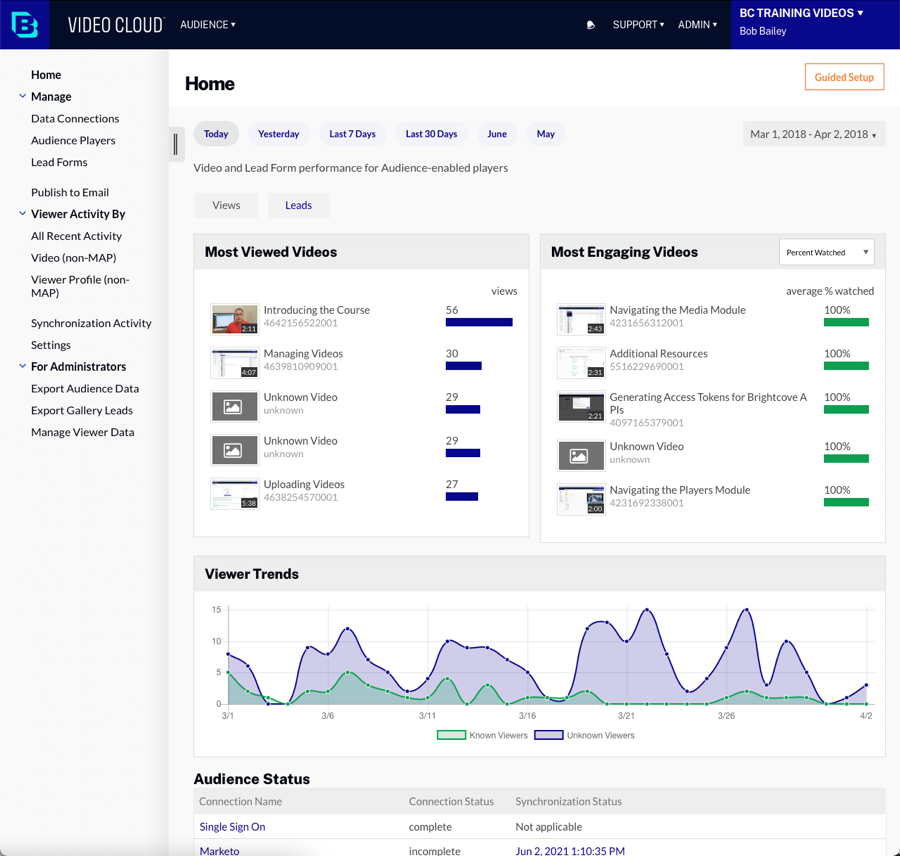
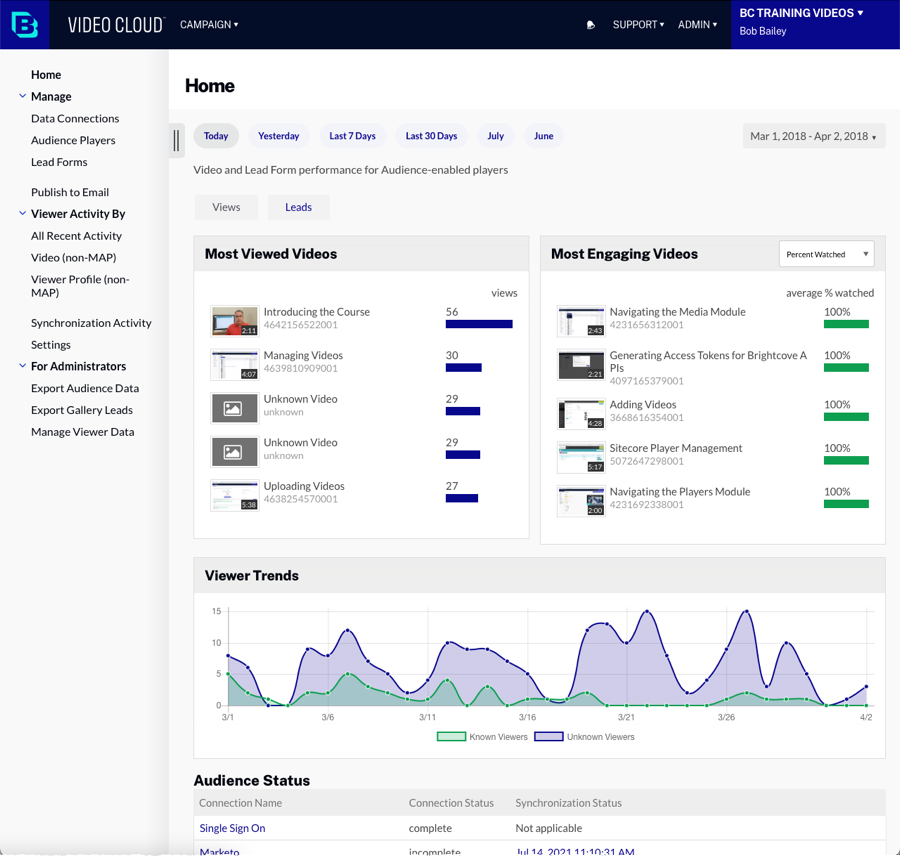
updates

diff --git a/_site/campaign/get-started/getting-started-campaign-module.html b/_site/campaign/get-started/getting-started-campaign-module.html
@@ -4,9 +4,9 @@
 <head>
   <meta charset="utf-8">
   <meta name="viewport" content="width=device-width, initial-scale=1, shrink-to-fit=no">
-  <meta name="description" content="This topic provides an overview of the Audience module which is used to track video engagement.">
+  <meta name="description" content="This topic provides an overview of the Campaign module which is used to track video engagement.">
   
-  <title>Getting Started with the Audience Module</title>
+  <title>Getting Started with the Campaign Module</title>
   <link rel="apple-touch-icon" sizes="180x180" href="/apple-touch-icon.png">
   <link rel="icon" type="image/png" sizes="32x32" href="/favicon-32x32.png">
   <link rel="icon" type="image/png" sizes="16x16" href="/favicon-16x16.png">
@@ -61,7 +61,7 @@ function doGTranslate(lang_pair) {if(lang_pair.value)lang_pair=lang_pair.value;i
       
       <li class="breadcrumb-item"><a href="/campaign/get-started/">Getting Started</a></li>
       
-      <li class="breadcrumb-item active" aria-current="page">Getting Started with the Audience Module</li>
+      <li class="breadcrumb-item active" aria-current="page">Getting Started with the Campaign Module</li>
     </ol>
   </nav>
 </header>
@@ -1174,39 +1174,39 @@ function doGTranslate(lang_pair) {if(lang_pair.value)lang_pair=lang_pair.value;i
 
 
 <article class="bcls-article">
-  <h1>Getting Started with the Audience Module</h1>
-  <summary>This topic provides an overview of the Audience module which is used to track video engagement.</summary>
+  <h1>Getting Started with the Campaign Module</h1>
+  <summary>This topic provides an overview of the Campaign module which is used to track video engagement.</summary>
   <section class="bcls-section">
     <div class="training-video-player-ipx" data-experience="5a73630f7afd7a00101bc1b5" data-video-ids="4582289844001">&nbsp;</div>
     <script src="https://players.brightcove.net/20318290001/experience_5a73630f7afd7a00101bc1b5/live.js"></script>
-    <p>The Audience module is used to track video engagement data for videos that are viewed inside of an Audience-enabled Brightcove Player. Viewing data is stored in Video Cloud and can optionally be synchronized to popular marketing automation platforms such as Eloqua, Marketo, HubSpot and Salesforce.</p>
-    <p>To access the Audience module, login to Video Cloud and click <strong>Audience</strong> in the navigation header. The Audience homepage displays video engagement data which provides insights into how long videos were watched, which videos were watched, and who watched them. This allows you to better engage and convert your audiences.</p>
+    <p>The Campaign module is used to track video engagement data for videos that are viewed inside of a Campaign-enabled Brightcove Player. Viewing data is stored in Video Cloud and can optionally be synchronized to popular marketing automation platforms such as Eloqua, Marketo, HubSpot and Salesforce.</p>
+    <p>To access the Campaign module, login to Video Cloud and click <strong>Campaign</strong> in the navigation header. The Campaign homepage displays video engagement data which provides insights into how long videos were watched, which videos were watched, and who watched them. This allows you to better engage and convert your audiences.</p>
     <figure class="bcls-figure"><img class="bcls-image--no-border" alt="" src="/assets/images/campaign/getting-started/node15634-campaign-ui.png" /></figure>
     <p>The homepage provides the ability to:</p>
     <ul>
       <li><a href="#performance">View video performance</a></li>
       <li><a href="#leads">View leads performance</a></li>
-      <li><a href="#status">View the Audience module status</a></li>
+      <li><a href="#status">View the Campaign module status</a></li>
     </ul>
-    <p>The Audience module provides the ability to:</p>
+    <p>The Campaign module provides the ability to:</p>
     <ul>
       <li><a href="#connections">Setup data connections</a></li>
-      <li><a href="#players">Create Audience players</a></li>
+      <li><a href="#players">Create Campaign players</a></li>
       <li><a href="#leadforms">Create and manage lead forms</a></li>
       <li><a href="#email">Publish to Email </a></li>
       <li><a href="#events">View player events</a></li>
       <li><a href="#profiles">View viewer profiles</a></li>
       <li><a href="#jobs">View synchronization activity</a></li>
-      <li><a href="#settings">Configure Audience settings</a></li>
-      <li><a href="#export">Export Audience data</a></li>
+      <li><a href="#settings">Configure Campaign settings</a></li>
+      <li><a href="#export">Export Campaign data</a></li>
       <li><a href="#gallery_leads">Export Gallery leads</a></li>
       <li><a href="#manage">Manage viewer data</a></li>
     </ul>
   </section>
   <section class="bcls-section">
     <h2 id="performance">Viewing video performance</h2>
-    <p>The video performance section provides high level video performance for videos that were played inside of Audience-enabled players.</p>
-    <aside class="bcls-aside bcls-aside--information">Note: The Audience analytics system is separate from the general Video Cloud analytics system, and the two track data differently. Therefore you will see differences in some metrics if you compare the two. For example, the Video Cloud analytics system counts views as soon as a video starts, while the Audience analytics system does not count views until 10 seconds into the video. So if 14 viewers start the video, but 6 of them stop it before 10 seconds have played, Video Cloud analytics would show 14 views, while the Audience module would show 8.</aside>
+    <p>The video performance section provides high level video performance for videos that were played inside of Campaign-enabled players.</p>
+    <aside class="bcls-aside bcls-aside--information">Note: The Campaign analytics system is separate from the general Video Cloud analytics system, and the two track data differently. Therefore you will see differences in some metrics if you compare the two. For example, the Video Cloud analytics system counts views as soon as a video starts, while the Campaign analytics system does not count views until 10 seconds into the video. So if 14 viewers start the video, but 6 of them stop it before 10 seconds have played, Video Cloud analytics would show 14 views, while the Campaign module would show 8.</aside>
     <p>Start by selecting a <strong>Time Period</strong> for the charts. The following options are available:</p>
     <ul>
       <li>7 Days</li>
@@ -1221,12 +1221,12 @@ function doGTranslate(lang_pair) {if(lang_pair.value)lang_pair=lang_pair.value;i
     </ul>
     <div id="viewed" class="BCL-subsection">
       <h3>Most Viewed Videos</h3>
-      <p>The Most Viewed Videos chart displays the most viewed videos in Audience-enabled players for the selected time period.</p>
+      <p>The Most Viewed Videos chart displays the most viewed videos in Campaign-enabled players for the selected time period.</p>
       <figure class="bcls-figure"><img class="bcls-image--no-border" alt="" src="/assets/images/campaign/getting-started/node15634-most-viewed.png" /></figure>
     </div>
     <div id="engage" class="BCL-subsection">
       <h3>Most Engaging Videos</h3>
-      <p>The Most Engaging Videos chart displays the most engaging videos in Audience-enabled players for the selected time period. Engagement is the average percent watched. For details on how we calculate video engagement, watch the training video <a href="https://studio.support.brightcove.com/analytics/calculating-video-engagement-score.html">Calculating Video Engagement Score</a>.</p>
+      <p>The Most Engaging Videos chart displays the most engaging videos in Campaign-enabled players for the selected time period. Engagement is the average percent watched. For details on how we calculate video engagement, watch the training video <a href="https://studio.support.brightcove.com/analytics/calculating-video-engagement-score.html">Calculating Video Engagement Score</a>.</p>
       <figure class="bcls-figure"><img class="bcls-image--no-border" alt="" src="/assets/images/campaign/getting-started/node15634-most-engaging.png" /></figure>
     </div>
     <div id="trends" class="BCL-subsection">
@@ -1238,7 +1238,7 @@ function doGTranslate(lang_pair) {if(lang_pair.value)lang_pair=lang_pair.value;i
   </section>
   <section class="bcls-section">
     <h2 id="leads">Viewing leads performance</h2>
-    <p>To view the leads information, click the <strong>Leads</strong> tab. Note that the Leads tab will only appear if your account has Audience lead forms created. The leads performance section provides high level leads performance for videos that were played inside of Audience-enabled players. Start by selecting a <strong>Time Period</strong> for the charts. The following options are available:</p>
+    <p>To view the leads information, click the <strong>Leads</strong> tab. Note that the Leads tab will only appear if your account has Campaign lead forms created. The leads performance section provides high level leads performance for videos that were played inside of Campaign-enabled players. Start by selecting a <strong>Time Period</strong> for the charts. The following options are available:</p>
     <ul>
       <li>7 Days</li>
       <li>30 Days</li>
@@ -1246,13 +1246,13 @@ function doGTranslate(lang_pair) {if(lang_pair.value)lang_pair=lang_pair.value;i
     </ul>
     <p>The following charts are displayed:</p>
     <ul>
-      <li><a href="#funnel">Audience Funnel</a></li>
+      <li><a href="#funnel">Campaign Funnel</a></li>
       <li><a href="#top">Top Converting Videos</a></li>
       <li><a href="#leads">Leads Chart</a></li>
     </ul>
     <div id="funnel" class="BCL-subsection">
-      <h3>Audience Funnel</h3>
-      <p>The Audience Funnel displays metrics for videos in Audience-enabled players with Audience lead forms for the selected time period:</p>
+      <h3>Campaign Funnel</h3>
+      <p>The Campaign Funnel displays metrics for videos in Campaign-enabled players with Campaign lead forms for the selected time period:</p>
       <ul>
         <li><strong>Video impressions</strong> - The number of videos that were loaded</li>
         <li><strong>Video views</strong> - The number of times a video started playing, recorded when the stream is started (does not include rewind or replay); it is not a measure of individual viewers</li>
@@ -1273,13 +1273,13 @@ function doGTranslate(lang_pair) {if(lang_pair.value)lang_pair=lang_pair.value;i
     </div>
   </section>
   <section class="bcls-section">
-    <h2 id="status">Viewing the Audience module status</h2>
-    <p>The Audience Status section displays the current status of the Audience module.</p>
+    <h2 id="status">Viewing the Campaign module status</h2>
+    <p>The Campaign Status section displays the current status of the Campaign module.</p>
     <figure class="bcls-figure"><img class="bcls-image--no-border" alt="" src="/assets/images/campaign/getting-started/node15634-campaign-status.png" /></figure>
   </section>
   <section class="bcls-section">
     <h2 id="connections">Setting up data connections</h2>
-    <p>The <strong>Data Connections</strong> option is where you configure the Audience integrations. Audience can integrate with popular marketing automation platforms ("MAP&nbsp;integration") or the viewing data can be saved locally and then exported or extracted using the Audience API ("non-MAP" integration). The following table outlines the supported integrations.</p>
+    <p>The <strong>Data Connections</strong> option is where you configure the Campaign integrations. Campaign can integrate with popular marketing automation platforms ("MAP&nbsp;integration") or the viewing data can be saved locally and then exported or extracted using the Audience API ("non-MAP" integration). The following table outlines the supported integrations.</p>
     <table class="bcls-table">
       <thead class="bcls-table__head">
         <tr>
@@ -1300,30 +1300,30 @@ function doGTranslate(lang_pair) {if(lang_pair.value)lang_pair=lang_pair.value;i
           <td><ul>
               <li><a href="/campaign/integrations/non-map/creating-custom-integrations-campaign-module.html">Custom integrations</a></li>
               <li><a href="/campaign/integrations/non-map/integrating-campaign-single-sign.html">Single sign-on</a></li>
-              <li><a href="/campaign/integrations/non-map/using-campaign-module-track-viewers.html">Audience Tracking</a></li>
+              <li><a href="/campaign/integrations/non-map/using-campaign-module-track-viewers.html">Campaign Tracking</a></li>
             </ul></td>
         </tr>
       </tbody>
     </table>
-    <p>When publishing Audience-enabled players, use the Advanced Embed (in-page) publishing code. The Standard Embed (iframe) publishing code will not work as the Audience plugin will be running inside of an iframe and therefore will be unable to access any parent page URL parameters and may not get the correct cookies.</p>
+    <p>When publishing Campaign-enabled players, use the Advanced Embed (in-page) publishing code. The Standard Embed (iframe) publishing code will not work as the Campaign plugin will be running inside of an iframe and therefore will be unable to access any parent page URL parameters and may not get the correct cookies.</p>
     <aside class="bcls-aside bcls-aside--information">Note: The number of connections that can be configured is based upon your Video Cloud subscription.</aside>
   </section>
   <section class="bcls-section">
-    <h2 id="players">Creating Audience players</h2>
-    <p>The <strong>Audience Players</strong> option allows you to create Audience-enabled Brightcove Players. Video engagement data will only be recorded when video content is viewed inside of an Audience-enabled video player. For information on creating Audience-enabled players, see <a href="/campaign/general/creating-campaign-enabled-player.html">Creating an Audience-enabled Player</a>.</p>
+    <h2 id="players">Creating Campaign players</h2>
+    <p>The <strong>Campaign Players</strong> option allows you to create Campaign-enabled Brightcove Players. Video engagement data will only be recorded when video content is viewed inside of a Campaign-enabled video player. For information on creating Campaign-enabled players, see <a href="/campaign/general/creating-campaign-enabled-player.html">Creating a Campaign-enabled Player</a>.</p>
   </section>
   <section class="bcls-section">
     <h2 id="leadforms">Creating and managing lead forms</h2>
-    <p>The <strong>Lead Forms</strong> option allows you to create lead forms for data capture. Once a lead form is created, it can be associated with an Audience-enabled player. For information on creating lead forms, see <a href="/campaign/general/creating-campaign-lead-form.html">Creating an Audience&nbsp;Lead Form</a>. It is also possible to create and use lead forms that are created inside of a third-party marketing automation platform.</p>
+    <p>The <strong>Lead Forms</strong> option allows you to create lead forms for data capture. Once a lead form is created, it can be associated with a Campaign-enabled player. For information on creating lead forms, see <a href="/campaign/general/creating-campaign-lead-form.html">Creating a Campaign&nbsp;Lead Form</a>. It is also possible to create and use lead forms that are created inside of a third-party marketing automation platform.</p>
   </section>
   <section class="bcls-section">
     <h2 id="email">Publishing a video to email</h2>
-    <p>The <strong>Publish to Email</strong> option allows you to select a player, video and then generate the HTML embed code to email the video. For information, see <a href="/campaign/general/publishing-video-email-using-campaign-module.html">Publishing a Video to Email using the Audience Module</a>.</p>
+    <p>The <strong>Publish to Email</strong> option allows you to select a player, video and then generate the HTML embed code to email the video. For information, see <a href="/campaign/general/publishing-video-email-using-campaign-module.html">Publishing a Video to Email using the Campaign Module</a>.</p>
     <aside class="bcls-aside bcls-aside--information">Note: The Media module also provides the ability to publish a video to email. For information, see <a href="/publish/publishing-video-email.html">Publishing a Video to Email</a>.</aside>
   </section>
   <section class="bcls-section">
     <h2 id="events">Viewing player events</h2>
-    <p>The <strong>All Recent Activity</strong> option allows you to view the player view events that were recorded for the past 24 hours. For information, see <a href="/campaign/general/viewing-player-events-campaign-module.html">Viewing Player Events in the Audience Module</a>.</p>
+    <p>The <strong>All Recent Activity</strong> option allows you to view the player view events that were recorded for the past 24 hours. For information, see <a href="/campaign/general/viewing-player-events-campaign-module.html">Viewing Player Events in the Campaign Module</a>.</p>
   </section>
   <section class="bcls-section">
     <h2 id="videoactivity">Viewing video activity</h2>
@@ -1331,21 +1331,21 @@ function doGTranslate(lang_pair) {if(lang_pair.value)lang_pair=lang_pair.value;i
   </section>
   <section class="bcls-section">
     <h2 id="profiles">Viewing viewer profiles</h2>
-    <p>The <strong>Viewer Profile (non-MAP)</strong> option allows you to view the player view events by viewer. This option is enabled when using SSO or custom integrations, or Audience Tracking. For information, see <a href="/campaign/general/viewing-viewer-profile-information.html">Viewing Viewer Profile Information</a>.</p>
+    <p>The <strong>Viewer Profile (non-MAP)</strong> option allows you to view the player view events by viewer. This option is enabled when using SSO or custom integrations, or Campaign Tracking. For information, see <a href="/campaign/general/viewing-viewer-profile-information.html">Viewing Viewer Profile Information</a>.</p>
   </section>
   <section class="bcls-section">
     <h2 id="jobs">Viewing synchronization activity</h2>
-    <p>The <strong>Synchronization Activity</strong> option displays the last 10 jobs that were synchronized from Audience to a marketing automation platform. Synchronization runs on an hourly basis. Select a connection and then click the <strong>Test Sync</strong> button to run a synchronization. This is helpful when testing new integrations to avoid having to wait to see if event data is being sent to your marketing automation platform. Test Sync can be executed once every 5 minutes up to 10 times per hour.</p>
+    <p>The <strong>Synchronization Activity</strong> option displays the last 10 jobs that were synchronized from Campaign to a marketing automation platform. Synchronization runs on an hourly basis. Select a connection and then click the <strong>Test Sync</strong> button to run a synchronization. This is helpful when testing new integrations to avoid having to wait to see if event data is being sent to your marketing automation platform. Test Sync can be executed once every 5 minutes up to 10 times per hour.</p>
     <aside class="bcls-aside bcls-aside--information">Note: When using custom integrations, no synchronization jobs are created. Synchronization jobs are created only when using integrations with a marketing automation platform.</aside>
     <figure class="bcls-figure"><img class="bcls-image--no-border" alt="" src="/assets/images/campaign/getting-started/node15634-jobs.png" /></figure>
   </section>
   <section class="bcls-section">
-    <h2 id="settings">Configuring Audience settings</h2>
-    <p>The <strong>Settings</strong> option allows you to configure some default settings for the account. For information, see <a href="/campaign/general/configuring-campaign-settings.html">Configuring Audience Settings</a>.</p>
+    <h2 id="settings">Configuring Campaign settings</h2>
+    <p>The <strong>Settings</strong> option allows you to configure some default settings for the account. For information, see <a href="/campaign/general/configuring-campaign-settings.html">Configuring Campaign Settings</a>.</p>
   </section>
   <section class="bcls-section">
-    <h2 id="export">Exporting Audience data</h2>
-    <p>The <strong>Export Audience Data</strong> option is used to export view event and lead form data. This option will only appear for account administrators. For information on exporting Audience data, see <a href="/campaign/admin/exporting-campaign-data-campaign-module.html">Exporting Audience Data from the Audience Module</a>.</p>
+    <h2 id="export">Exporting Campaign data</h2>
+    <p>The <strong>Export Campaign Data</strong> option is used to export view event and lead form data. This option will only appear for account administrators. For information on exporting Campaign data, see <a href="/campaign/admin/exporting-campaign-data-campaign-module.html">Exporting Campaign Data from the Campaign Module</a>.</p>
   </section>
   <section class="bcls-section">
     <h2 id="gallery_leads">Exporting Gallery leads</h2>

diff --git a/campaign/get-started/getting-started-campaign-module.html b/campaign/get-started/getting-started-campaign-module.html
@@ -1,6 +1,6 @@
 ---
-title: Getting Started with the Audience Module
-description: This topic provides an overview of the Audience module which is used to track video engagement.
+title: Getting Started with the Campaign Module
+description: This topic provides an overview of the Campaign module which is used to track video engagement.
 parent: Getting Started
 ---
 <article class="bcls-article">
@@ -9,34 +9,34 @@ parent: Getting Started
   <section class="bcls-section">
     <div class="training-video-player-ipx" data-experience="5a73630f7afd7a00101bc1b5" data-video-ids="4582289844001">&nbsp;</div>
     <script src="https://players.brightcove.net/20318290001/experience_5a73630f7afd7a00101bc1b5/live.js"></script>
-    <p>The Audience module is used to track video engagement data for videos that are viewed inside of an Audience-enabled Brightcove Player. Viewing data is stored in Video Cloud and can optionally be synchronized to popular marketing automation platforms such as Eloqua, Marketo, HubSpot and Salesforce.</p>
-    <p>To access the Audience module, login to Video Cloud and click <strong>Audience</strong> in the navigation header. The Audience homepage displays video engagement data which provides insights into how long videos were watched, which videos were watched, and who watched them. This allows you to better engage and convert your audiences.</p>
+    <p>The Campaign module is used to track video engagement data for videos that are viewed inside of a Campaign-enabled Brightcove Player. Viewing data is stored in Video Cloud and can optionally be synchronized to popular marketing automation platforms such as Eloqua, Marketo, HubSpot and Salesforce.</p>
+    <p>To access the Campaign module, login to Video Cloud and click <strong>Campaign</strong> in the navigation header. The Campaign homepage displays video engagement data which provides insights into how long videos were watched, which videos were watched, and who watched them. This allows you to better engage and convert your audiences.</p>
     <figure class="bcls-figure"><img class="bcls-image--no-border" alt="" src="/assets/images/campaign/getting-started/node15634-campaign-ui.png" /></figure>
     <p>The homepage provides the ability to:</p>
     <ul>
       <li><a href="#performance">View video performance</a></li>
       <li><a href="#leads">View leads performance</a></li>
-      <li><a href="#status">View the Audience module status</a></li>
+      <li><a href="#status">View the Campaign module status</a></li>
     </ul>
-    <p>The Audience module provides the ability to:</p>
+    <p>The Campaign module provides the ability to:</p>
     <ul>
       <li><a href="#connections">Setup data connections</a></li>
-      <li><a href="#players">Create Audience players</a></li>
+      <li><a href="#players">Create Campaign players</a></li>
       <li><a href="#leadforms">Create and manage lead forms</a></li>
       <li><a href="#email">Publish to Email </a></li>
       <li><a href="#events">View player events</a></li>
       <li><a href="#profiles">View viewer profiles</a></li>
       <li><a href="#jobs">View synchronization activity</a></li>
-      <li><a href="#settings">Configure Audience settings</a></li>
-      <li><a href="#export">Export Audience data</a></li>
+      <li><a href="#settings">Configure Campaign settings</a></li>
+      <li><a href="#export">Export Campaign data</a></li>
       <li><a href="#gallery_leads">Export Gallery leads</a></li>
       <li><a href="#manage">Manage viewer data</a></li>
     </ul>
   </section>
   <section class="bcls-section">
     <h2 id="performance">Viewing video performance</h2>
-    <p>The video performance section provides high level video performance for videos that were played inside of Audience-enabled players.</p>
-    <aside class="bcls-aside bcls-aside--information">Note: The Audience analytics system is separate from the general Video Cloud analytics system, and the two track data differently. Therefore you will see differences in some metrics if you compare the two. For example, the Video Cloud analytics system counts views as soon as a video starts, while the Audience analytics system does not count views until 10 seconds into the video. So if 14 viewers start the video, but 6 of them stop it before 10 seconds have played, Video Cloud analytics would show 14 views, while the Audience module would show 8.</aside>
+    <p>The video performance section provides high level video performance for videos that were played inside of Campaign-enabled players.</p>
+    <aside class="bcls-aside bcls-aside--information">Note: The Campaign analytics system is separate from the general Video Cloud analytics system, and the two track data differently. Therefore you will see differences in some metrics if you compare the two. For example, the Video Cloud analytics system counts views as soon as a video starts, while the Campaign analytics system does not count views until 10 seconds into the video. So if 14 viewers start the video, but 6 of them stop it before 10 seconds have played, Video Cloud analytics would show 14 views, while the Campaign module would show 8.</aside>
     <p>Start by selecting a <strong>Time Period</strong> for the charts. The following options are available:</p>
     <ul>
       <li>7 Days</li>
@@ -51,12 +51,12 @@ parent: Getting Started
     </ul>
     <div id="viewed" class="BCL-subsection">
       <h3>Most Viewed Videos</h3>
-      <p>The Most Viewed Videos chart displays the most viewed videos in Audience-enabled players for the selected time period.</p>
+      <p>The Most Viewed Videos chart displays the most viewed videos in Campaign-enabled players for the selected time period.</p>
       <figure class="bcls-figure"><img class="bcls-image--no-border" alt="" src="/assets/images/campaign/getting-started/node15634-most-viewed.png" /></figure>
     </div>
     <div id="engage" class="BCL-subsection">
       <h3>Most Engaging Videos</h3>
-      <p>The Most Engaging Videos chart displays the most engaging videos in Audience-enabled players for the selected time period. Engagement is the average percent watched. For details on how we calculate video engagement, watch the training video <a href="https://studio.support.brightcove.com/analytics/calculating-video-engagement-score.html">Calculating Video Engagement Score</a>.</p>
+      <p>The Most Engaging Videos chart displays the most engaging videos in Campaign-enabled players for the selected time period. Engagement is the average percent watched. For details on how we calculate video engagement, watch the training video <a href="https://studio.support.brightcove.com/analytics/calculating-video-engagement-score.html">Calculating Video Engagement Score</a>.</p>
       <figure class="bcls-figure"><img class="bcls-image--no-border" alt="" src="/assets/images/campaign/getting-started/node15634-most-engaging.png" /></figure>
     </div>
     <div id="trends" class="BCL-subsection">
@@ -68,7 +68,7 @@ parent: Getting Started
   </section>
   <section class="bcls-section">
     <h2 id="leads">Viewing leads performance</h2>
-    <p>To view the leads information, click the <strong>Leads</strong> tab. Note that the Leads tab will only appear if your account has Audience lead forms created. The leads performance section provides high level leads performance for videos that were played inside of Audience-enabled players. Start by selecting a <strong>Time Period</strong> for the charts. The following options are available:</p>
+    <p>To view the leads information, click the <strong>Leads</strong> tab. Note that the Leads tab will only appear if your account has Campaign lead forms created. The leads performance section provides high level leads performance for videos that were played inside of Campaign-enabled players. Start by selecting a <strong>Time Period</strong> for the charts. The following options are available:</p>
     <ul>
       <li>7 Days</li>
       <li>30 Days</li>
@@ -76,13 +76,13 @@ parent: Getting Started
     </ul>
     <p>The following charts are displayed:</p>
     <ul>
-      <li><a href="#funnel">Audience Funnel</a></li>
+      <li><a href="#funnel">Campaign Funnel</a></li>
       <li><a href="#top">Top Converting Videos</a></li>
       <li><a href="#leads">Leads Chart</a></li>
     </ul>
     <div id="funnel" class="BCL-subsection">
-      <h3>Audience Funnel</h3>
-      <p>The Audience Funnel displays metrics for videos in Audience-enabled players with Audience lead forms for the selected time period:</p>
+      <h3>Campaign Funnel</h3>
+      <p>The Campaign Funnel displays metrics for videos in Campaign-enabled players with Campaign lead forms for the selected time period:</p>
       <ul>
         <li><strong>Video impressions</strong> - The number of videos that were loaded</li>
         <li><strong>Video views</strong> - The number of times a video started playing, recorded when the stream is started (does not include rewind or replay); it is not a measure of individual viewers</li>
@@ -103,13 +103,13 @@ parent: Getting Started
     </div>
   </section>
   <section class="bcls-section">
-    <h2 id="status">Viewing the Audience module status</h2>
-    <p>The Audience Status section displays the current status of the Audience module.</p>
+    <h2 id="status">Viewing the Campaign module status</h2>
+    <p>The Campaign Status section displays the current status of the Campaign module.</p>
     <figure class="bcls-figure"><img class="bcls-image--no-border" alt="" src="/assets/images/campaign/getting-started/node15634-campaign-status.png" /></figure>
   </section>
   <section class="bcls-section">
     <h2 id="connections">Setting up data connections</h2>
-    <p>The <strong>Data Connections</strong> option is where you configure the Audience integrations. Audience can integrate with popular marketing automation platforms ("MAP&nbsp;integration") or the viewing data can be saved locally and then exported or extracted using the Audience API ("non-MAP" integration). The following table outlines the supported integrations.</p>
+    <p>The <strong>Data Connections</strong> option is where you configure the Campaign integrations. Campaign can integrate with popular marketing automation platforms ("MAP&nbsp;integration") or the viewing data can be saved locally and then exported or extracted using the Audience API ("non-MAP" integration). The following table outlines the supported integrations.</p>
     <table class="bcls-table">
       <thead class="bcls-table__head">
         <tr>
@@ -130,30 +130,30 @@ parent: Getting Started
           <td><ul>
               <li><a href="/campaign/integrations/non-map/creating-custom-integrations-campaign-module.html">Custom integrations</a></li>
               <li><a href="/campaign/integrations/non-map/integrating-campaign-single-sign.html">Single sign-on</a></li>
-              <li><a href="/campaign/integrations/non-map/using-campaign-module-track-viewers.html">Audience Tracking</a></li>
+              <li><a href="/campaign/integrations/non-map/using-campaign-module-track-viewers.html">Campaign Tracking</a></li>
             </ul></td>
         </tr>
       </tbody>
     </table>
-    <p>When publishing Audience-enabled players, use the Advanced Embed (in-page) publishing code. The Standard Embed (iframe) publishing code will not work as the Audience plugin will be running inside of an iframe and therefore will be unable to access any parent page URL parameters and may not get the correct cookies.</p>
+    <p>When publishing Campaign-enabled players, use the Advanced Embed (in-page) publishing code. The Standard Embed (iframe) publishing code will not work as the Campaign plugin will be running inside of an iframe and therefore will be unable to access any parent page URL parameters and may not get the correct cookies.</p>
     <aside class="bcls-aside bcls-aside--information">Note: The number of connections that can be configured is based upon your Video Cloud subscription.</aside>
   </section>
   <section class="bcls-section">
-    <h2 id="players">Creating Audience players</h2>
-    <p>The <strong>Audience Players</strong> option allows you to create Audience-enabled Brightcove Players. Video engagement data will only be recorded when video content is viewed inside of an Audience-enabled video player. For information on creating Audience-enabled players, see <a href="/campaign/general/creating-campaign-enabled-player.html">Creating an Audience-enabled Player</a>.</p>
+    <h2 id="players">Creating Campaign players</h2>
+    <p>The <strong>Campaign Players</strong> option allows you to create Campaign-enabled Brightcove Players. Video engagement data will only be recorded when video content is viewed inside of a Campaign-enabled video player. For information on creating Campaign-enabled players, see <a href="/campaign/general/creating-campaign-enabled-player.html">Creating a Campaign-enabled Player</a>.</p>
   </section>
   <section class="bcls-section">
     <h2 id="leadforms">Creating and managing lead forms</h2>
-    <p>The <strong>Lead Forms</strong> option allows you to create lead forms for data capture. Once a lead form is created, it can be associated with an Audience-enabled player. For information on creating lead forms, see <a href="/campaign/general/creating-campaign-lead-form.html">Creating an Audience&nbsp;Lead Form</a>. It is also possible to create and use lead forms that are created inside of a third-party marketing automation platform.</p>
+    <p>The <strong>Lead Forms</strong> option allows you to create lead forms for data capture. Once a lead form is created, it can be associated with a Campaign-enabled player. For information on creating lead forms, see <a href="/campaign/general/creating-campaign-lead-form.html">Creating a Campaign&nbsp;Lead Form</a>. It is also possible to create and use lead forms that are created inside of a third-party marketing automation platform.</p>
   </section>
   <section class="bcls-section">
     <h2 id="email">Publishing a video to email</h2>
-    <p>The <strong>Publish to Email</strong> option allows you to select a player, video and then generate the HTML embed code to email the video. For information, see <a href="/campaign/general/publishing-video-email-using-campaign-module.html">Publishing a Video to Email using the Audience Module</a>.</p>
+    <p>The <strong>Publish to Email</strong> option allows you to select a player, video and then generate the HTML embed code to email the video. For information, see <a href="/campaign/general/publishing-video-email-using-campaign-module.html">Publishing a Video to Email using the Campaign Module</a>.</p>
     <aside class="bcls-aside bcls-aside--information">Note: The Media module also provides the ability to publish a video to email. For information, see <a href="/publish/publishing-video-email.html">Publishing a Video to Email</a>.</aside>
   </section>
   <section class="bcls-section">
     <h2 id="events">Viewing player events</h2>
-    <p>The <strong>All Recent Activity</strong> option allows you to view the player view events that were recorded for the past 24 hours. For information, see <a href="/campaign/general/viewing-player-events-campaign-module.html">Viewing Player Events in the Audience Module</a>.</p>
+    <p>The <strong>All Recent Activity</strong> option allows you to view the player view events that were recorded for the past 24 hours. For information, see <a href="/campaign/general/viewing-player-events-campaign-module.html">Viewing Player Events in the Campaign Module</a>.</p>
   </section>
   <section class="bcls-section">
     <h2 id="videoactivity">Viewing video activity</h2>
@@ -161,21 +161,21 @@ parent: Getting Started
   </section>
   <section class="bcls-section">
     <h2 id="profiles">Viewing viewer profiles</h2>
-    <p>The <strong>Viewer Profile (non-MAP)</strong> option allows you to view the player view events by viewer. This option is enabled when using SSO or custom integrations, or Audience Tracking. For information, see <a href="/campaign/general/viewing-viewer-profile-information.html">Viewing Viewer Profile Information</a>.</p>
+    <p>The <strong>Viewer Profile (non-MAP)</strong> option allows you to view the player view events by viewer. This option is enabled when using SSO or custom integrations, or Campaign Tracking. For information, see <a href="/campaign/general/viewing-viewer-profile-information.html">Viewing Viewer Profile Information</a>.</p>
   </section>
   <section class="bcls-section">
     <h2 id="jobs">Viewing synchronization activity</h2>
-    <p>The <strong>Synchronization Activity</strong> option displays the last 10 jobs that were synchronized from Audience to a marketing automation platform. Synchronization runs on an hourly basis. Select a connection and then click the <strong>Test Sync</strong> button to run a synchronization. This is helpful when testing new integrations to avoid having to wait to see if event data is being sent to your marketing automation platform. Test Sync can be executed once every 5 minutes up to 10 times per hour.</p>
+    <p>The <strong>Synchronization Activity</strong> option displays the last 10 jobs that were synchronized from Campaign to a marketing automation platform. Synchronization runs on an hourly basis. Select a connection and then click the <strong>Test Sync</strong> button to run a synchronization. This is helpful when testing new integrations to avoid having to wait to see if event data is being sent to your marketing automation platform. Test Sync can be executed once every 5 minutes up to 10 times per hour.</p>
     <aside class="bcls-aside bcls-aside--information">Note: When using custom integrations, no synchronization jobs are created. Synchronization jobs are created only when using integrations with a marketing automation platform.</aside>
     <figure class="bcls-figure"><img class="bcls-image--no-border" alt="" src="/assets/images/campaign/getting-started/node15634-jobs.png" /></figure>
   </section>
   <section class="bcls-section">
-    <h2 id="settings">Configuring Audience settings</h2>
-    <p>The <strong>Settings</strong> option allows you to configure some default settings for the account. For information, see <a href="/campaign/general/configuring-campaign-settings.html">Configuring Audience Settings</a>.</p>
+    <h2 id="settings">Configuring Campaign settings</h2>
+    <p>The <strong>Settings</strong> option allows you to configure some default settings for the account. For information, see <a href="/campaign/general/configuring-campaign-settings.html">Configuring Campaign Settings</a>.</p>
   </section>
   <section class="bcls-section">
-    <h2 id="export">Exporting Audience data</h2>
-    <p>The <strong>Export Audience Data</strong> option is used to export view event and lead form data. This option will only appear for account administrators. For information on exporting Audience data, see <a href="/campaign/admin/exporting-campaign-data-campaign-module.html">Exporting Audience Data from the Audience Module</a>.</p>
+    <h2 id="export">Exporting Campaign data</h2>
+    <p>The <strong>Export Campaign Data</strong> option is used to export view event and lead form data. This option will only appear for account administrators. For information on exporting Campaign data, see <a href="/campaign/admin/exporting-campaign-data-campaign-module.html">Exporting Campaign Data from the Campaign Module</a>.</p>
   </section>
   <section class="bcls-section">
     <h2 id="gallery_leads">Exporting Gallery leads</h2>

diff --git a/_site/admin/managing-playback-rights.html b/_site/admin/managing-playback-rights.html
@@ -1358,7 +1358,7 @@ function doGTranslate(lang_pair) {if(lang_pair.value)lang_pair=lang_pair.value;i
 
 <hr>
 <div class="last-updated">
-  Page last updated on 10 Jun 2021
+  Page last updated on 14 Jul 2021
 </div>
 
 
